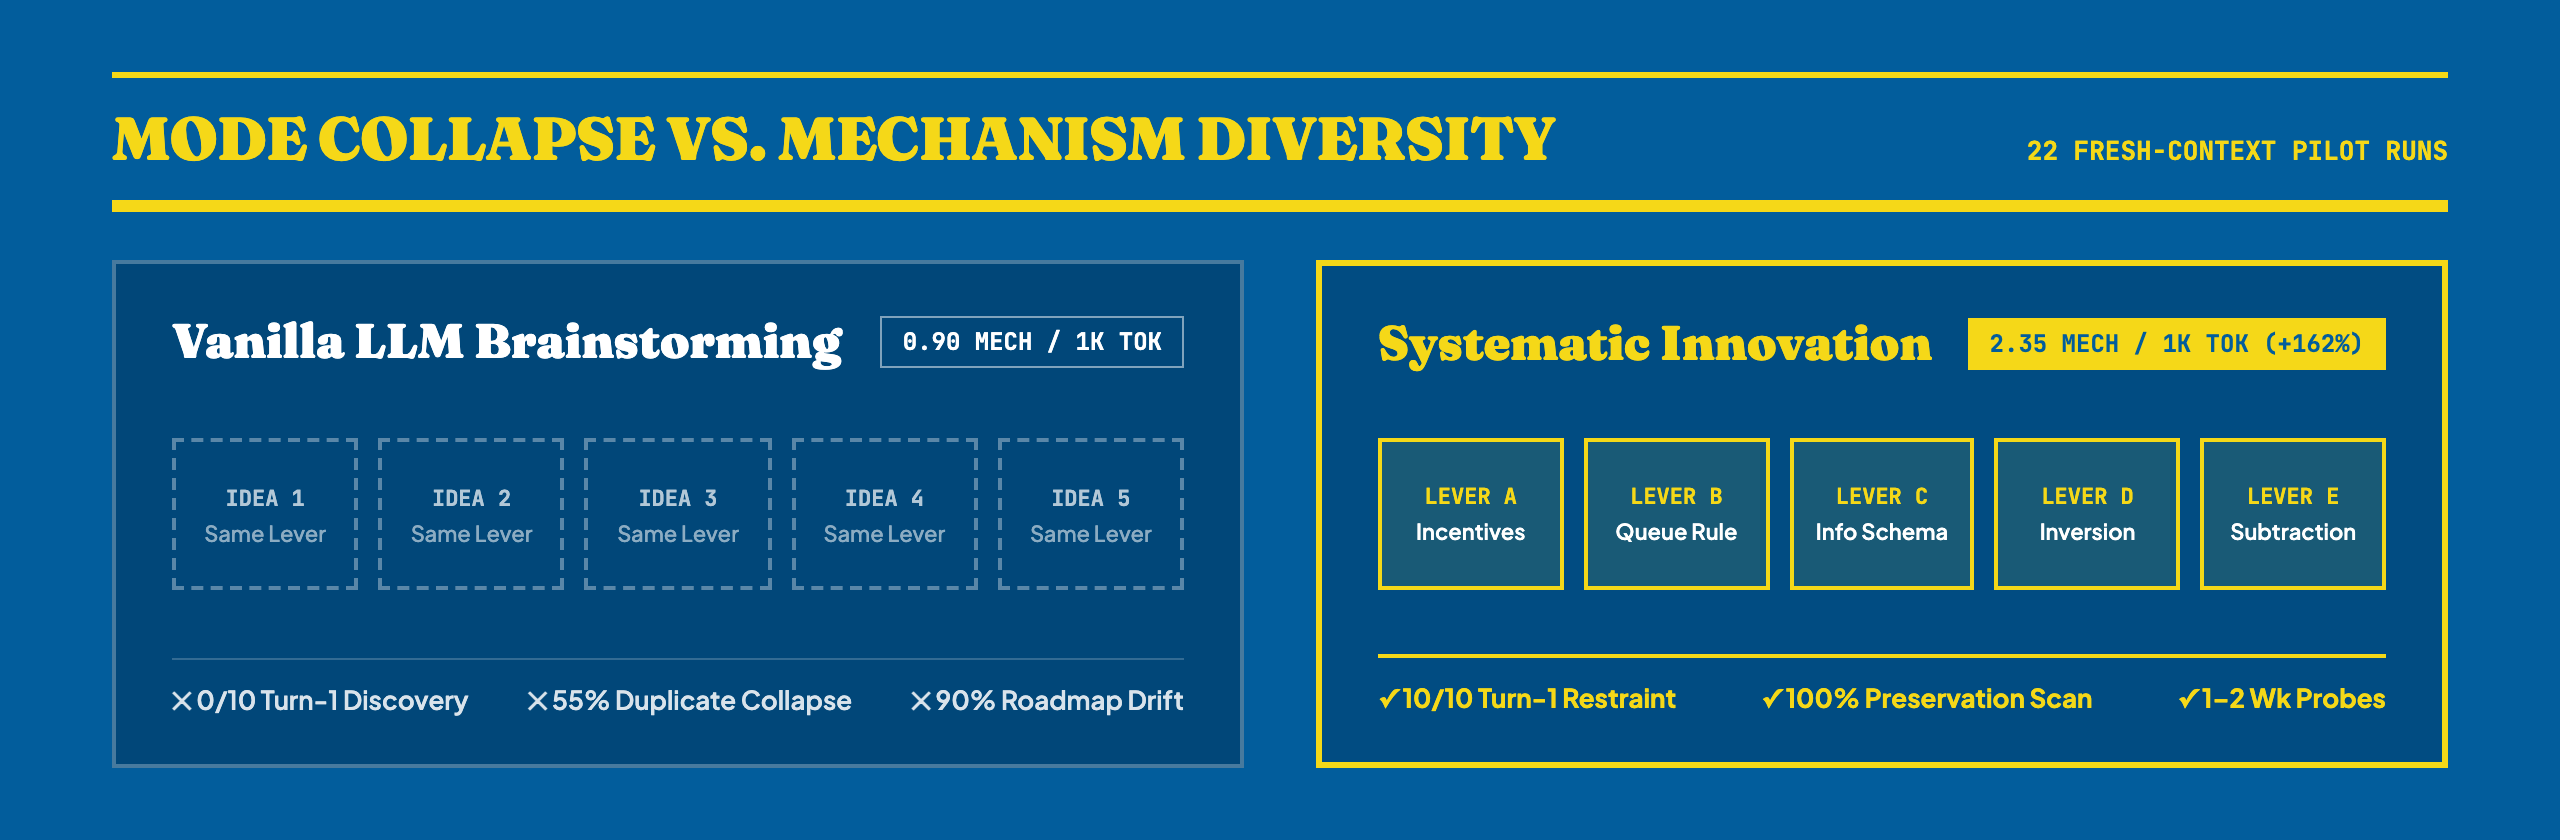
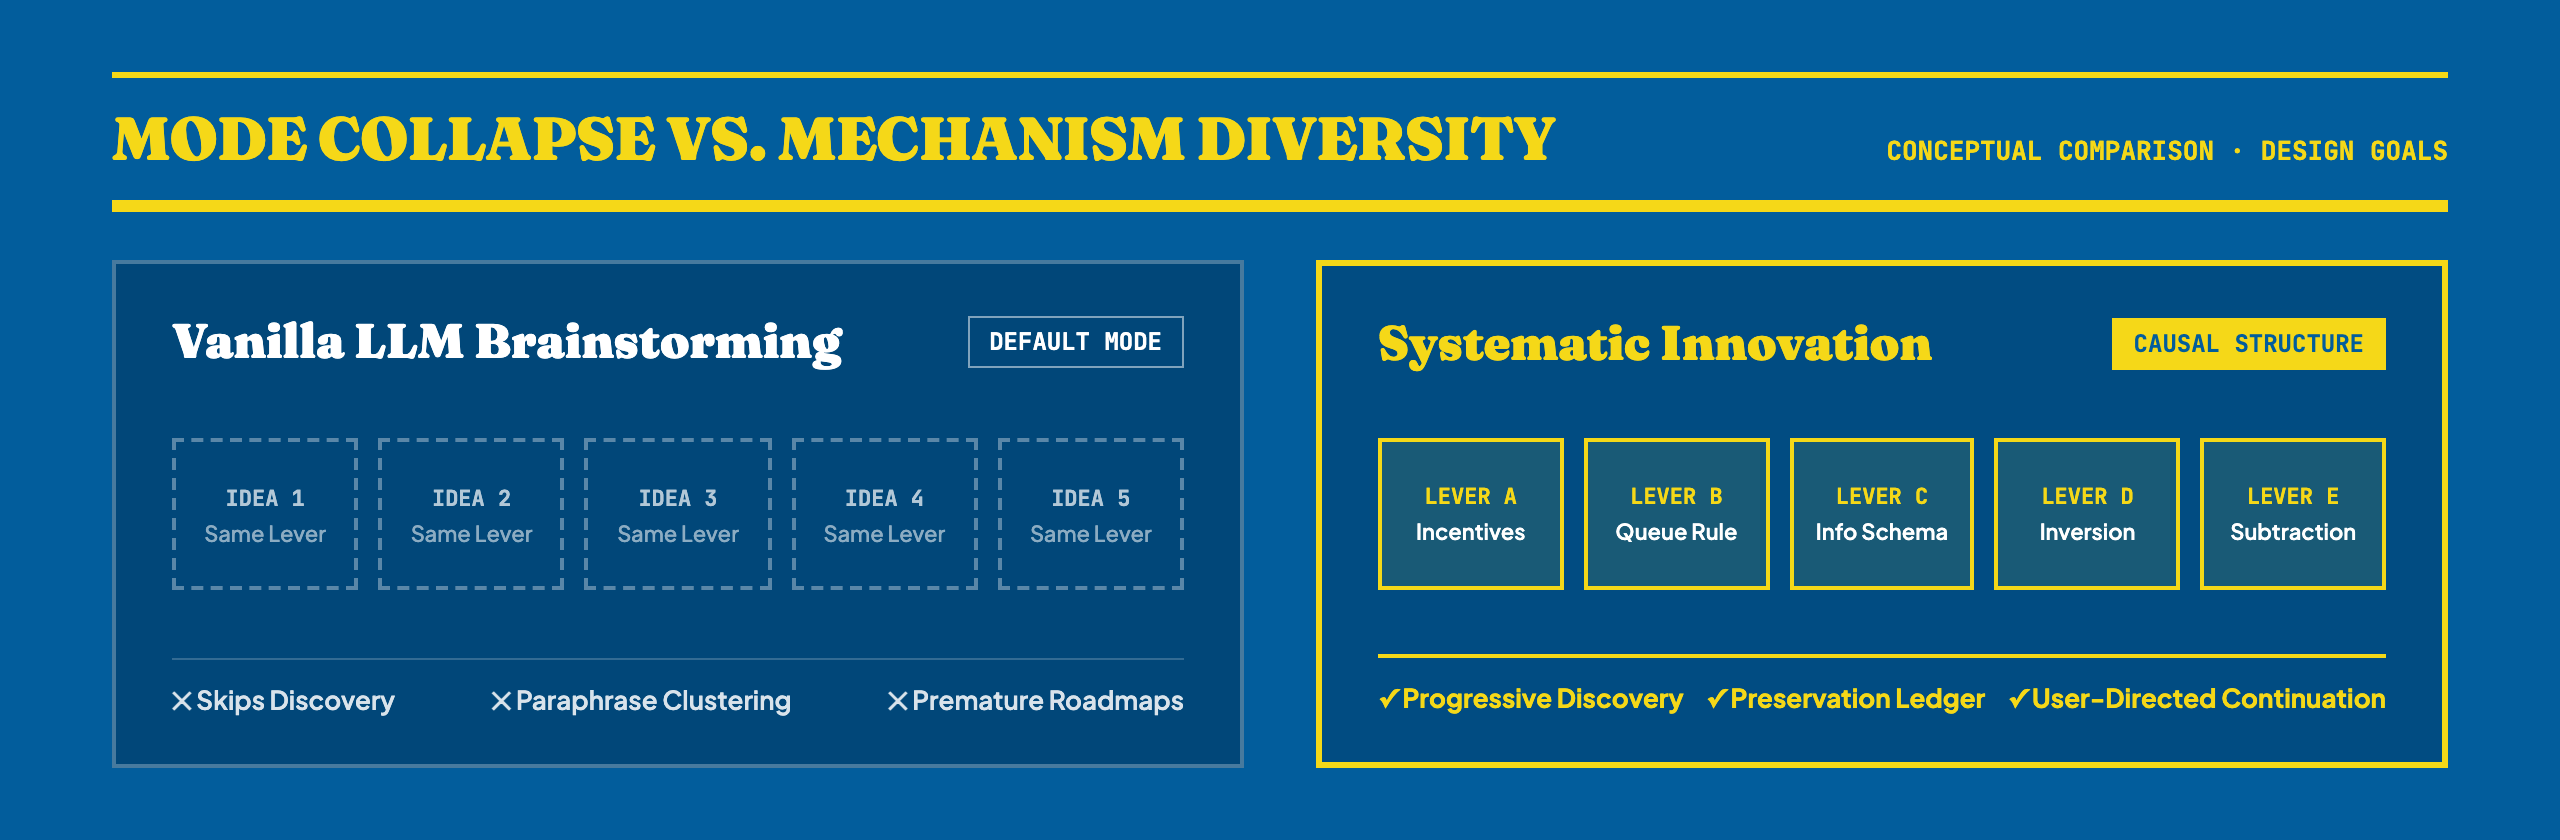
fix: strip withdrawn claims from branding assets and align README evidence links

diff --git a/tools/build_branding.py b/tools/build_branding.py
@@ -183,7 +183,7 @@ banner_html = f"""<!DOCTYPE html>
 
       <rect x="382" y="14" width="136" height="54" fill="none" stroke="#f5d818" stroke-width="2.5"/>
       <text x="450" y="38" text-anchor="middle" fill="#f5d818" font-family="'Plus Jakarta Sans', sans-serif" font-size="12" font-weight="800" letter-spacing="1">3. VALIDATE</text>
-      <text x="450" y="55" text-anchor="middle" fill="#ffffff" font-family="'Plus Jakarta Sans', sans-serif" font-size="11" font-weight="600">Learning Probes</text>
+      <text x="450" y="55" text-anchor="middle" fill="#ffffff" font-family="'Plus Jakarta Sans', sans-serif" font-size="11" font-weight="600">User Continuation</text>
 
       <path d="M 450 68 L 450 96 L 70 96 L 70 68" fill="none" stroke="#f5d818" stroke-width="2" stroke-dasharray="5,5"/>
       <polygon points="70,68 65,77 75,77" fill="#f5d818"/>
@@ -194,7 +194,7 @@ banner_html = f"""<!DOCTYPE html>
   <div class="footer-section">
     <div class="footer-row">
       <div class="author">After Tudor Rickards</div>
-      <div class="meta-right">Pilot Lift: +162% Causal Density · 0% Roadmap Drift</div>
+      <div class="meta-right">Exploratory Design · Ideation-First · Preservation-Safe</div>
     </div>
     <div class="rule-bottom"></div>
   </div>
@@ -347,13 +347,13 @@ comparison_html = f"""<!DOCTYPE html>
 <body>
   <div class="header">
     <h2>Mode Collapse vs. Mechanism Diversity</h2>
-    <span>22 Fresh-Context Pilot Runs</span>
+    <span>Conceptual Comparison · Design Goals</span>
   </div>
   <div class="grid">
     <div class="panel">
       <div class="panel-title">
         <h3>Vanilla LLM Brainstorming</h3>
-        <span class="badge">0.90 MECH / 1K TOK</span>
+        <span class="badge">DEFAULT MODE</span>
       </div>
       <div class="boxes">
         <div class="box"><span class="lbl">IDEA 1</span><span class="sub">Same Lever</span></div>
@@ -363,16 +363,16 @@ comparison_html = f"""<!DOCTYPE html>
         <div class="box"><span class="lbl">IDEA 5</span><span class="sub">Same Lever</span></div>
       </div>
       <div class="footer-bar">
-        <span>✕ 0/10 Turn-1 Discovery</span>
-        <span>✕ 55% Duplicate Collapse</span>
-        <span>✕ 90% Roadmap Drift</span>
+        <span>✕ Skips Discovery</span>
+        <span>✕ Paraphrase Clustering</span>
+        <span>✕ Premature Roadmaps</span>
       </div>
     </div>
 
     <div class="panel active">
       <div class="panel-title">
         <h3>Systematic Innovation</h3>
-        <span class="badge">2.35 MECH / 1K TOK (+162%)</span>
+        <span class="badge">CAUSAL STRUCTURE</span>
       </div>
       <div class="boxes">
         <div class="box"><span class="lbl">LEVER A</span><span class="sub">Incentives</span></div>
@@ -382,9 +382,9 @@ comparison_html = f"""<!DOCTYPE html>
         <div class="box"><span class="lbl">LEVER E</span><span class="sub">Subtraction</span></div>
       </div>
       <div class="footer-bar">
-        <span>✓ 10/10 Turn-1 Restraint</span>
-        <span>✓ 100% Preservation Scan</span>
-        <span>✓ 1–2 Wk Probes</span>
+        <span>✓ Progressive Discovery</span>
+        <span>✓ Preservation Ledger</span>
+        <span>✓ User-Directed Continuation</span>
       </div>
     </div>
   </div>
@@ -519,17 +519,17 @@ arch_html = f"""<!DOCTYPE html>
     <div class="step">
       <div class="num">04 · LAYER 2</div>
       <h4>Mechanism Ledger</h4>
-      <p>Enforce 5 structural dimensions</p>
+      <p>Compare causal &amp; structural axes</p>
     </div>
     <div class="step">
       <div class="num">05 · LAYERS 3–6</div>
       <h4>Action Portfolio</h4>
-      <p>Ch. 8 Receptivity &amp; 1–2 Wk Probes</p>
+      <p>Ch. 8 Receptivity &amp; Continuation</p>
     </div>
   </div>
 
   <div class="feedback">
-    <span>▲ DEEP MODE: TURN-1 RESTRAINT (&le; 4 Questions + 3 Seeds)</span>
+    <span>▲ DEEP MODE: ONE QUESTION AT A TIME (&le; 7 Max) + 2–3 SEEDS</span>
     <span>QUICK MODE: SINGLE-TURN 6-LAYER PORTFOLIO ▲</span>
   </div>
 </body>
@@ -649,12 +649,12 @@ demo_html = f"""<!DOCTYPE html>
     <div class="card">
       <div class="card-head">
         <h3>Turn 1: Diagnostic Restraint</h3>
-        <span class="pill">413 TOKENS</span>
+        <span class="pill">TURN 1</span>
       </div>
       <div class="items">
         <div class="item"><strong>PRESERVE</strong><span>100% individual customer ownership &amp; commission</span></div>
         <div class="item"><strong>QUARANTINE</strong><span>Team pool splits, paid CRM software, cash spiffs</span></div>
-        <div class="item"><strong>DISCOVER</strong><span>4 surgical questions on day-off handoffs &amp; quotes</span></div>
+        <div class="item"><strong>DISCOVER</strong><span>1 high-leverage question on day-off handoffs (one at a time, max 7)</span></div>
         <div class="item"><strong>3 SEEDS</strong><span>Contrasting 1-sentence directional previews</span></div>
       </div>
       <div class="note">✓ Zero premature solution dumping before constraints</div>
@@ -663,15 +663,15 @@ demo_html = f"""<!DOCTYPE html>
     <div class="card">
       <div class="card-head">
         <h3>Turn 2: Six-Layer Portfolio</h3>
-        <span class="pill">6 DISTINCT LEVERS</span>
+        <span class="pill">PORTFOLIO</span>
       </div>
       <div class="items">
         <div class="item"><strong>P1 INCENTIVE</strong><span>90/10 Prepared Handoff Card vs. 75/25 Cold Rescue</span></div>
         <div class="item"><strong>P2 QUEUE</strong><span>Up-Queue Podium Immunity while assisting peers</span></div>
         <div class="item"><strong>P3 SCHEMA</strong><span>Back-of-Tag Field Notes crediting Category Curators</span></div>
-        <div class="item"><strong>P4 CH. 8 PATH</strong><span>3 Stakeholder Hearings + 5-day paper card probe</span></div>
+        <div class="item"><strong>P4 CH. 8 PATH</strong><span>Receptivity, Yes-But Safeguards &amp; User Continuation</span></div>
       </div>
-      <div class="note">✓ 8.2x efficiency lift over vanilla baseline (1.36 vs 0.17)</div>
+      <div class="note">✓ Conceptual walkthrough — illustrative structure, not a benchmark claim</div>
     </div>
   </div>
 </body>

diff --git a/tests/test_branding_claims.py b/tests/test_branding_claims.py
@@ -1,0 +1,43 @@
+from pathlib import Path
+import unittest
+
+
+ROOT = Path(__file__).resolve().parents[1]
+FORBIDDEN_ASSET_STRINGS = (
+    "+162%",
+    "8.2x",
+    "Pilot Lift",
+    "Learning Probes",
+    "≤ 4 Questions",
+    "&le; 4 Questions",
+    "4 surgical questions",
+    "5 structural dimensions",
+    "0.90 MECH / 1K TOK",
+    "2.35 MECH / 1K TOK",
+    "1–2 Wk Probes",
+    "6 DISTINCT LEVERS",
+    "1.36 vs 0.17",
+)
+FORBIDDEN_README_ACTIVE_STRINGS = (
+    "still need reconciliation",
+    "still require reconciliation",
+    "Transforms ordinary AI ideation",
+)
+
+
+class BrandingClaimsRegressionTests(unittest.TestCase):
+    def test_build_branding_contains_no_withdrawn_claims_or_superseded_rules(self) -> None:
+        source = (ROOT / "tools/build_branding.py").read_text(encoding="utf-8")
+        for forbidden in FORBIDDEN_ASSET_STRINGS:
+            self.assertNotIn(forbidden, source)
+
+    def test_readme_embeds_no_withdrawn_claims_or_stale_reconciliation_text(self) -> None:
+        readme = (ROOT / "README.md").read_text(encoding="utf-8")
+        for forbidden in FORBIDDEN_ASSET_STRINGS + FORBIDDEN_README_ACTIVE_STRINGS:
+            self.assertNotIn(forbidden, readme)
+        self.assertIn("evals/restored-2026-10-18/report.md", readme)
+        self.assertIn("references/innovation-lenses.md", readme)
+
+
+if __name__ == "__main__":
+    unittest.main()

diff --git a/README.md b/README.md
@@ -9,7 +9,7 @@
 <p align="center">
   <a href="LICENSE"><img src="https://img.shields.io/badge/License-MIT-025d9c.svg?style=flat-square" alt="License: MIT"></a>
   <a href="skills/systematic-innovation/SKILL.md"><img src="https://img.shields.io/badge/Standard-Agent%20Skills-f5d818.svg?style=flat-square" alt="Agent Skills Standard"></a>
-  <a href="evals/stress/five-cycle-report.md"><img src="https://img.shields.io/badge/Evidence-Public%20Development-025d9c.svg?style=flat-square" alt="Evidence: exploratory public development"></a>
+  <a href="evals/restored-2026-10-18/report.md"><img src="https://img.shields.io/badge/Evidence-Exploratory%20Dev-025d9c.svg?style=flat-square" alt="Evidence: exploratory development diagnostic"></a>
   <a href="tests/"><img src="https://img.shields.io/badge/Tests-Local%20Checks-f5d818.svg?style=flat-square" alt="Tests: local deterministic checks"></a>
   <a href="SECURITY.md"><img src="https://img.shields.io/badge/Runtime-Pure%20Markdown-025d9c.svg?style=flat-square" alt="Runtime: Pure Markdown"></a>
 </p>
@@ -20,7 +20,7 @@
 
 Ordinary brainstorming can produce familiar variations, miss system constraints, or jump prematurely to implementation. This skill provides a structured way to explore different mechanisms while preserving existing value.
 
-**`systematic-innovation`** transforms ordinary AI ideation through socio-technical systems theory (Tudor Rickards, *Stimulating Innovation: A Systems Approach*, 1985) and modern empirical LLM ideation science (2024–2026).
+**`systematic-innovation`** structures AI ideation through socio-technical systems theory (Tudor Rickards, *Stimulating Innovation: A Systems Approach*, 1985) and modern empirical LLM ideation science (2024–2026).
 
 <p align="center">
   <img src="assets/comparison.png" alt="Mode Collapse vs. Mechanism Diversity" width="100%">
@@ -44,7 +44,7 @@ Instead of generic solution dumps, `systematic-innovation` delivers:
 ### Deep Mode (Multi-Turn Iterative Discovery)
 For example: “Help our regional library explore access options. Ask me about the constraints before synthesizing a portfolio.”
 
-Discovery depends on an actual opportunity for user replies. The [canonical router](skills/systematic-innovation/SKILL.md) and [Deep reference](skills/systematic-innovation/references/deep-mode.md) define current behavior. The [contract findings](evals/stress/contract-findings.md) identify differences that still need reconciliation with the approved specification.
+Discovery depends on an actual opportunity for user replies. The [canonical router](skills/systematic-innovation/SKILL.md) and [Deep reference](skills/systematic-innovation/references/deep-mode.md) define current behavior, following the 2026-10-17 restoration documented in the [contract findings](evals/stress/contract-findings.md).
 
 ### Quick Mode (Single-Turn Execution)
 For example: “Give me a complete portfolio now for reducing household food waste, using the constraints above.”
@@ -69,11 +69,11 @@ The exact workflow and output rules live only in the [canonical skill](skills/sy
 
 ## Empirical Benchmark Status
 
-The repository retains a 12-case pilot and a public adversarial stress corpus. Current results are exploratory development evidence, documented in the [five-cycle report](evals/stress/five-cycle-report.md).
+The repository retains a 12-case pilot and a public adversarial stress corpus. Current results are exploratory development evidence, documented in the [five-cycle report](evals/stress/five-cycle-report.md) and the [restored-contract diagnostic](evals/restored-2026-10-18/report.md).
 
-The earlier pilot's **+162% causal-density and per-token efficiency headlines are withdrawn as substantiated performance claims**. Recovery exposed regex token estimates, discovery-only outputs counted as portfolios, lexical clustering errors, and missing calibrated mechanism-quality judgments. These numbers do not establish the approved qualified-useful-mechanism primary endpoint.
+The earlier pilot's **causal-density and per-token efficiency headlines are withdrawn as substantiated performance claims**. Recovery exposed regex token estimates, discovery-only outputs counted as portfolios, lexical clustering errors, and missing calibrated mechanism-quality judgments. These numbers do not establish the approved qualified-useful-mechanism primary endpoint.
 
-Current evidence covers sampled output behavior, structural diagnostics, and explicitly audited token accounting. No calibrated judge or human evaluation has been performed; format-matched and established-method comparisons, primary-effect validation, broad host compatibility, and release eligibility remain unverified. The [contract findings](evals/stress/contract-findings.md) also identify discrepancies between the recovered skill and the approved specification.
+Current evidence covers sampled output behavior, structural diagnostics, and explicitly audited token accounting. A format-matched control ran in the small uncalibrated diagnostic ([restored-2026-10-18](evals/restored-2026-10-18/report.md)), but calibrated mechanism quality, established-method comparisons, primary-effect validation, broad host compatibility, and release eligibility remain unestablished. The [contract findings](evals/stress/contract-findings.md) record the discrepancies resolved by the 2026-10-17 restoration.
 
 The [original treatment analysis](evals/pilot/treatment-analysis.md) and [candidate assessment](evals/pilot/candidate-report.md) remain available as superseded historical records, together with unchanged raw responses.
 
@@ -83,7 +83,7 @@ The [original treatment analysis](evals/pilot/treatment-analysis.md) and [candid
 
 `systematic-innovation` adheres strictly to the **Agent Skills Specification**:
 - **100% Portable Markdown:** Operates inside system prompts and context windows.
-- **Zero Binary Dependencies:** Zero Python or native library dependencies at runtime.
+- **Zero Binary Dependencies:** The canonical runtime skill package (`skills/systematic-innovation/`) has zero Python or native library dependencies (repository development tools and branding generation have separate dev dependencies).
 - **Offline Capability:** The core requires no network access; host tools and their network behavior are configured separately.
 
 ### Local Installation
@@ -115,7 +115,7 @@ cp -r skills/systematic-innovation .cursor/skills/
 ```
 
 ### Direct Markdown Loading (Universal Fallback)
-If your environment does not support automated skill discovery, pass [`skills/systematic-innovation/SKILL.md`](skills/systematic-innovation/SKILL.md) directly into your agent's context window or system prompt.
+If your environment does not support automated skill discovery, pass [`skills/systematic-innovation/SKILL.md`](skills/systematic-innovation/SKILL.md) directly into your agent's context window or system prompt together with all four files under `skills/systematic-innovation/references/` ([`innovation-lenses.md`](skills/systematic-innovation/references/innovation-lenses.md), [`deep-mode.md`](skills/systematic-innovation/references/deep-mode.md), [`output-contract.md`](skills/systematic-innovation/references/output-contract.md), and [`evidence.md`](skills/systematic-innovation/references/evidence.md)).
 
 ---
 
@@ -124,7 +124,7 @@ If your environment does not support automated skill discovery, pass [`skills/sy
 This repository enforces strict provenance boundaries:
 - **Verified Primary Source:** Tudor Rickards (1985), *Stimulating Innovation: A Systems Approach*, Frances Pinter (Publishers), London, `pp. xi + 221`, ISBN `0-86187-512-5`.
 - **Verified Contents:** The nine-chapter bibliographic record and the exclusions for unverified reconstructions are maintained in the canonical [evidence reference](skills/systematic-innovation/references/evidence.md).
-- **Provenance Boundaries:** The canonical [evidence reference](skills/systematic-innovation/references/evidence.md) distinguishes primary-source principles, adaptations, and AI mechanisms. The [contract findings](evals/stress/contract-findings.md) identify classifications that still require reconciliation with the approved specification.
+- **Provenance Boundaries:** The canonical [evidence reference](skills/systematic-innovation/references/evidence.md) distinguishes primary-source principles, adaptations, and AI mechanisms. The 2026-10-17 restoration reconciled attribution classifications, with [contract findings](evals/stress/contract-findings.md) preserved as historical resolution context.
 
 ---
 

diff --git a/evals/stress/five-cycle-report.md b/evals/stress/five-cycle-report.md
@@ -2,7 +2,7 @@
 
 This report preserves raw evidence under `evals/stress/results/`. It records public development observations only. The canonical skill remains the sole behavioral authority; the runner and scorer are host mechanics.
 
-**Latest status:** Cycles 1–5 are logged, followed by a Cycle 6 measurement repair. Earlier candidate/diversity estimates are versioned historical diagnostics. No calibrated primary effect, ablation attribution, specification conformance, optimality, or universal non-hallucination claim is established. The behavioral-contract decision remains pending.
+**Latest status:** Cycles 1–5 are logged, followed by a Cycle 6 measurement repair. Earlier candidate/diversity estimates are versioned historical diagnostics. No calibrated primary effect, ablation attribution, specification conformance, optimality, or universal non-hallucination claim is established. Addendum (2026-10-17): The owner restored the approved behavioral contract in a36903a; Cycles 1–6 evaluate the pre-restoration candidate and are superseded by evals/restored-2026-10-18/report.md.
 
 ## Cycle 1 — Baseline Stress Exposure
 

diff --git a/evals/pilot/baseline-analysis.md b/evals/pilot/baseline-analysis.md
@@ -1,5 +1,7 @@
 # Pilot RED Baseline Analysis (`vanilla` No-Skill Condition)
 
+> **Superseded assessment — 2026-10-17 stress recovery:** The historical efficiency/quality claims below are not current validated claims. Legacy token counts were unverified estimates, some single-turn outputs stalled at discovery, and no calibrated mechanism-quality, safety, or human evaluation established the approved primary endpoint. Raw outputs remain unchanged. See the [audited stress report](../stress/five-cycle-report.md) and [contract findings](../stress/contract-findings.md).
+
 ## 1. Execution Summary
 
 - **Corpus:** `evals/pilot/cases.json` (12 cross-domain cases: 5 Deep controlled 3-turn cases, 5 Quick single-turn cases, 2 negative trigger controls).

diff --git a/evals/stress/contract-findings.md b/evals/stress/contract-findings.md
@@ -1,6 +1,6 @@
 # Recovered Behavioral Contract Discrepancies
 
-This is an evaluation finding, not a behavioral authority or specification amendment. The approved specifications remain authoritative. The owner decision requested during session recovery is pending.
+This is an evaluation finding, not a behavioral authority or specification amendment. The approved specifications remain authoritative. This historical audit recorded discrepancies resolved by the owner's 2026-10-17 restoration decision documented below.
 
 | Boundary | Approved behavioral specification | Recovered canonical skill | Decision needed |
 | :-- | :-- | :-- | :-- |
